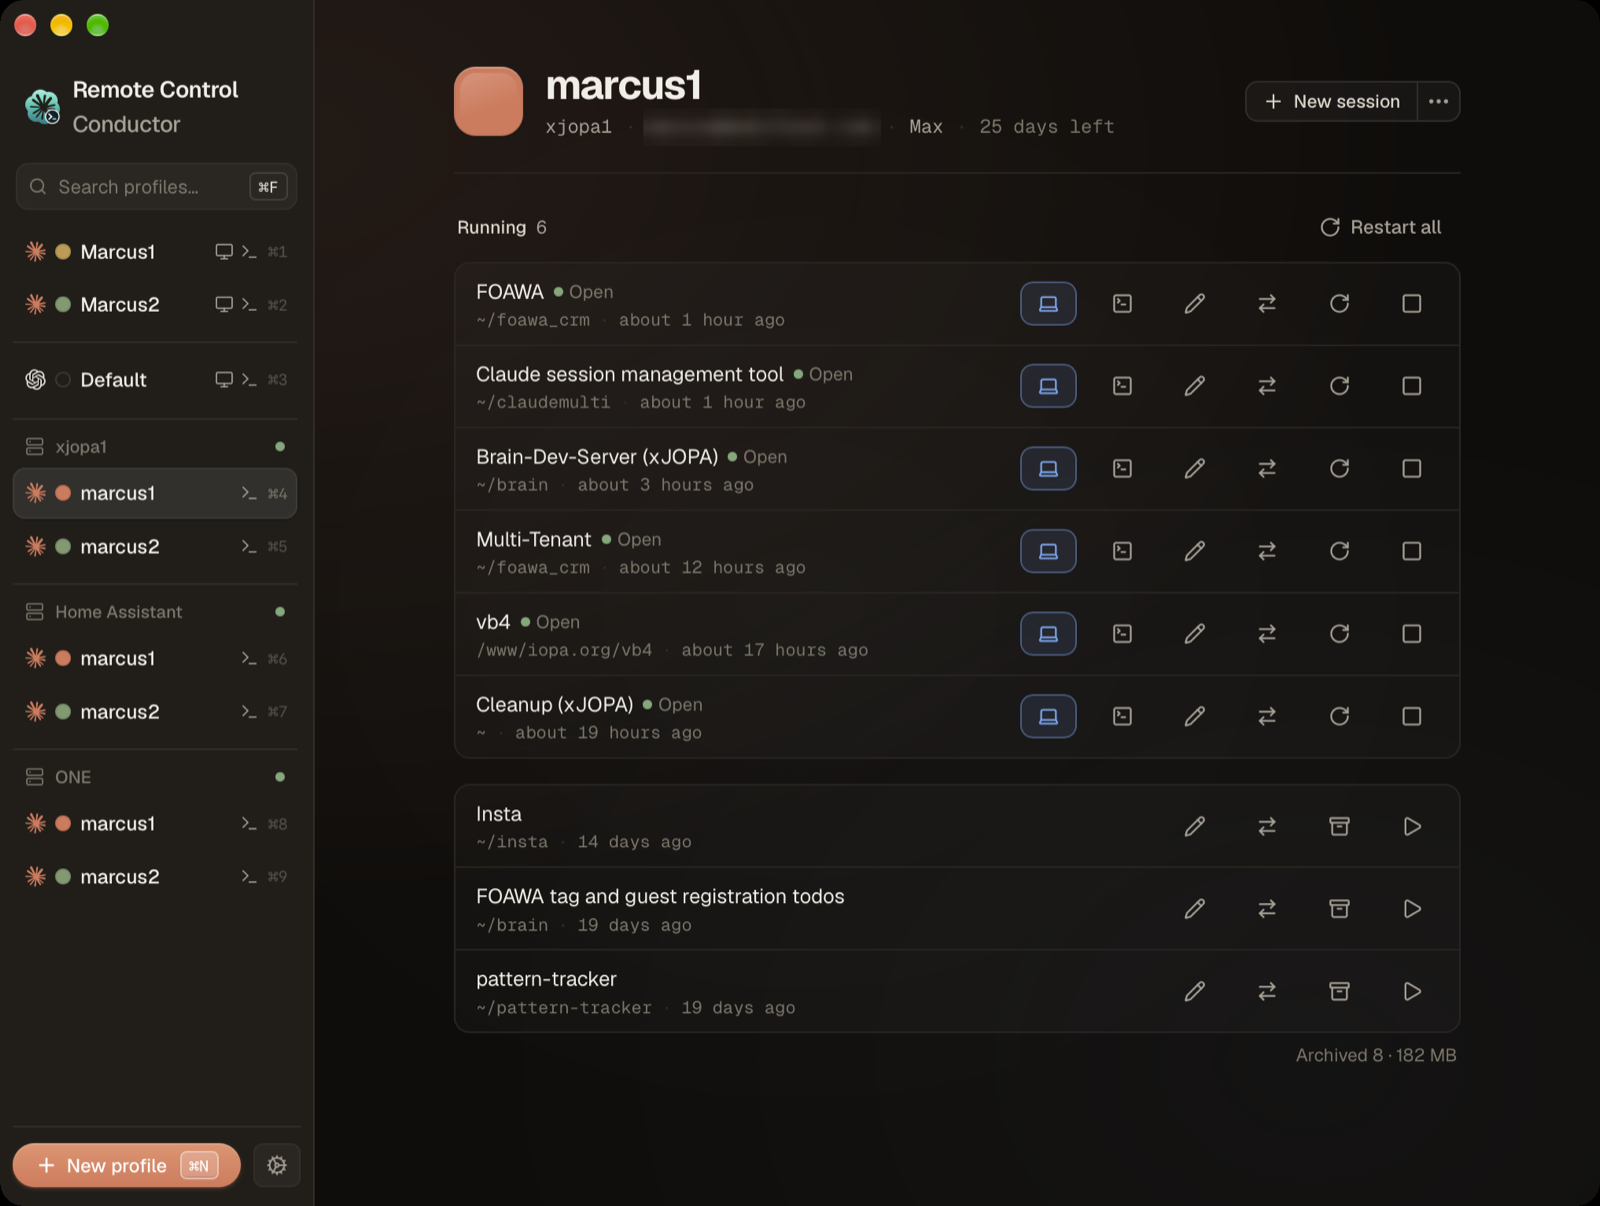
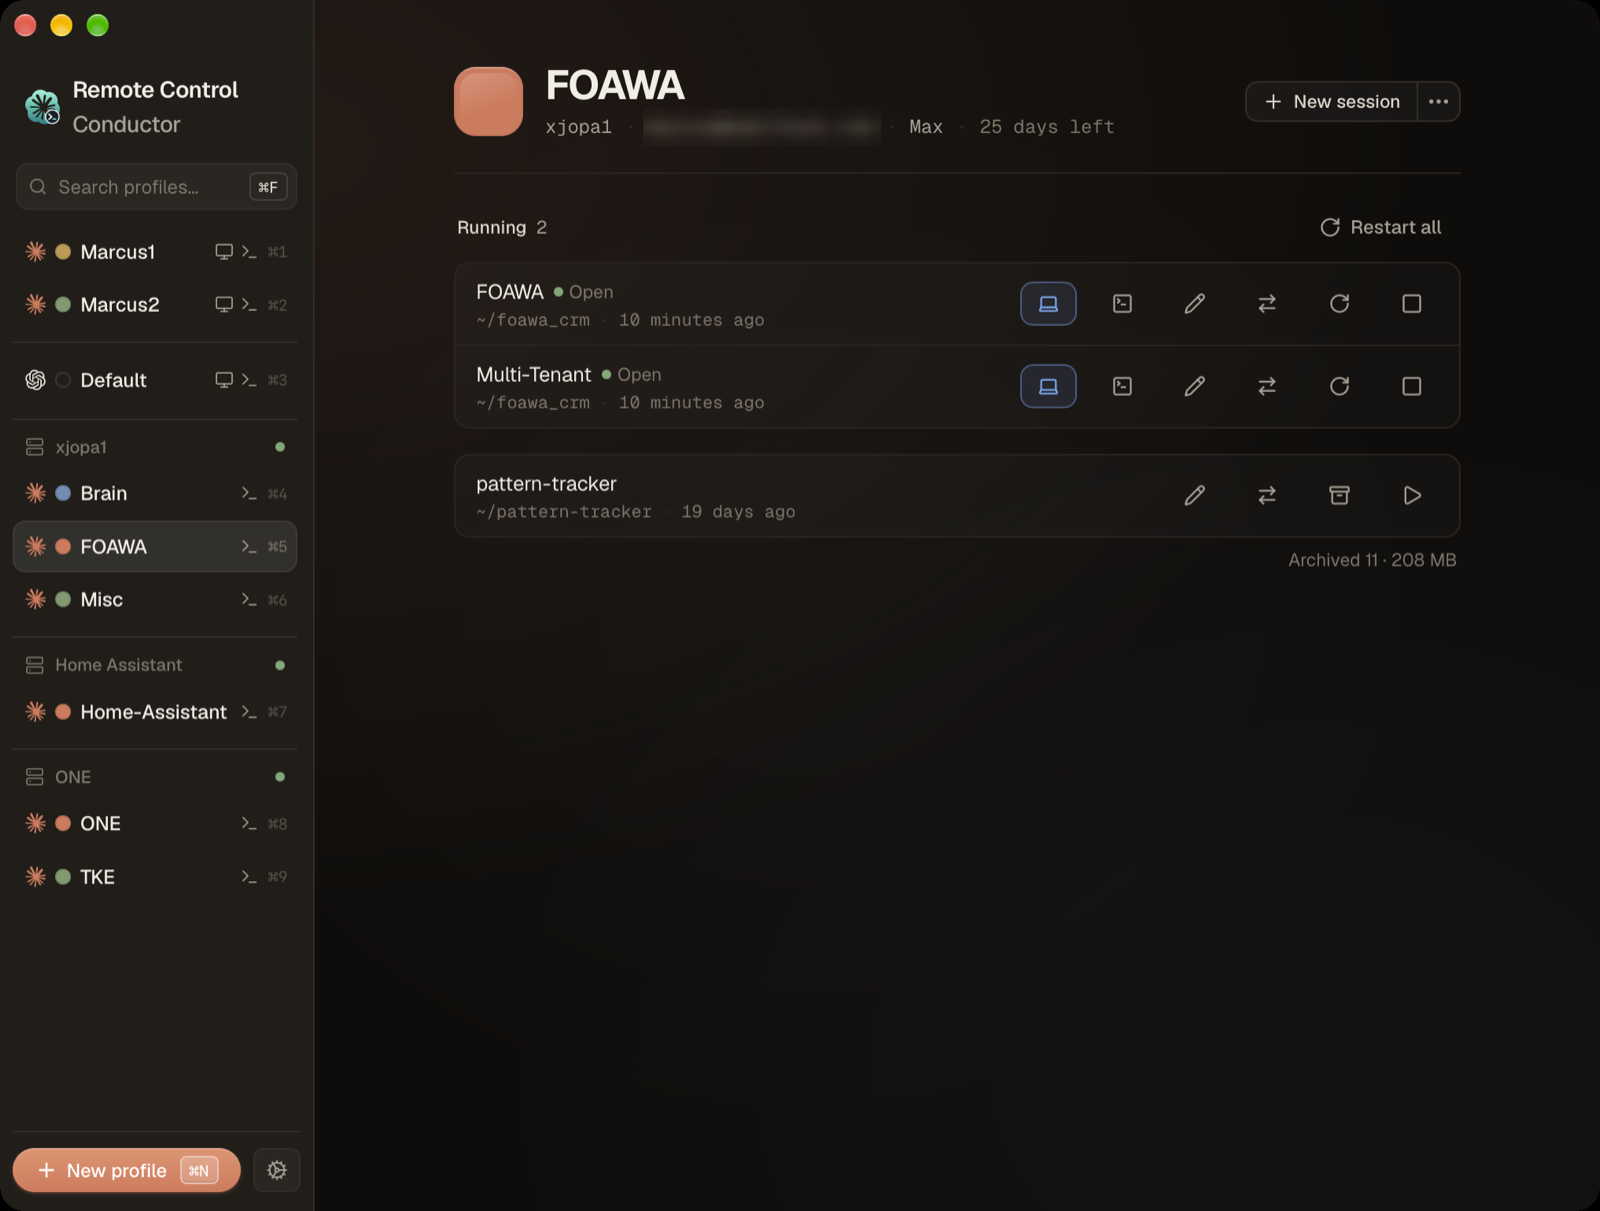
docs: accounts as desktop profiles, projects as host profiles; switch, don't move
The README explains how to set it up: each Claude account once as a desktop
profile, each project's sessions in a profile of its own on a host, and
Switch account when an account runs out, which is safer than moving
sessions because signing out and in is something Claude Code supports.
New screenshots: a project on a host, the Switch account dialog, and a
desktop profile's Remote Control sessions.

diff --git a/README.md b/README.md
@@ -23,7 +23,7 @@
 </p>
 
 <p align="center">
-  <img alt="A Claude account on a Linux host: running and previous sessions" src="docs/screenshots/remote-profile.png" width="860">
+  <img alt="A project on a Linux host, FOAWA on xjopa1: its running and previous sessions" src="docs/screenshots/remote-profile.png" width="860">
 </p>
 
 Remote Control lets you work with Claude Code from the Claude app on your phone, another Mac or the web.
@@ -32,10 +32,27 @@ when Claude updates, and decide which account it runs under. **Remote Control Co
 server and every account, from your Mac.** And because it's also an MCP server, you can just ask Claude:
 *"restart the claudemulti session on xjopa1"*.
 
+## How to set it up: accounts and projects
+
+- **Add each of your Claude accounts once, as a desktop profile.** One per login, each with its own Claude
+  desktop app on your Mac.
+- **Group each project's sessions into its own profile on a host.** A profile on a server is a Claude Code
+  config folder with its own sign-in, sessions and memory: `brain`, `foawa`, `home-assistant`. Projects can
+  use the same account or different ones.
+- **When an account runs out of usage, switch that project's account.** Its sessions stop, it signs in as
+  the other account, and the same sessions come back, in the same conversations. Nothing moves, and your
+  other projects keep running.
+
+Switching is also the safer way. Signing a Claude Code install out and in again is something Claude Code
+supports. Moving a session's files from one config folder to another isn't: it relies on how Claude Code
+lays out its files today, which can change with any update. Moving sessions between profiles is still
+there, for splitting a project up, but switching the account is the way to carry on when an account hits
+its limit.
+
 ## What you get
 
 ### 🔑 Easy login
-Add a Claude account to a server and sign in **in your Mac's own browser**, with Claude's usual OAuth page.
+Add a profile to a server and sign it in **in your Mac's own browser**, with Claude's usual OAuth page.
 Paste the code it shows into the app, and you're done. You don't need an ssh session or a browser on the
 server, and you won't be copying links out of a headless terminal.
 
@@ -53,13 +70,33 @@ Sessions come back by themselves after the server reboots.
 </table>
 
 ### 📱 Launch right into Remote Control
-One click opens a running session in the Claude app for that account on your Mac. It's already in the
-Claude app on your phone. Need the terminal after all? **Open in Terminal** attaches over ssh.
+One click opens a running session in the Claude app signed in to the same account on your Mac. It's
+already in the Claude app on your phone. Need the terminal after all? **Open in Terminal** attaches over ssh.
 
-### 🔀 Move sessions between accounts
-Hit a usage limit on one account? Move the session to another one, on the same server or between profiles
-on your Mac, and carry on where you left off. Everything goes with it: the transcript, subagents, file
-history, todos and plans.
+Each desktop profile also lists the Remote Control sessions running on its account, on every host, so you
+can see what Claude (Marcus2) can open and jump straight in. It follows the account: switch a project's
+account, and its sessions move to the other desktop profile's list.
+
+<p align="center">
+  <img alt="A desktop profile with the Remote Control sessions running on its account" src="docs/screenshots/desktop-remote-control.png" width="720">
+</p>
+
+### 🔄 Switch accounts, not sessions
+Hit a usage limit? **Switch account…** on the project: its running sessions stop, it signs out, and you
+sign it in as another account in your browser. The same sessions then resume under the new account, in
+the same conversations, with Remote Control on. Nothing moves, and no other project is touched: it's
+Claude Code's own sign-out and sign-in, so it doesn't depend on its internals. If the
+browser signs you in to the same account again, the app notices and says so.
+
+<p align="center">
+  <img alt="Switch FOAWA to another account: its two sessions stop and resume under the new account" src="docs/screenshots/switch-account.png" width="720">
+</p>
+
+### 🔀 Move sessions between profiles
+To split a project up, move a session to another profile, on the same server or between profiles on
+your Mac. Everything goes with it: the transcript, subagents, file history, todos and plans. Claude Code
+doesn't officially support moving sessions, so this works with its files as they're laid out today, with
+backups and checks along the way.
 
 - **Project memory merges.** Notes only one side changed merge by themselves. For notes both sides
   changed, you choose: keep the newer, take either side, or let Claude write a merge you read first.
@@ -85,14 +122,15 @@ back in the same conversation and with Remote Control on.
 
 ### 🖥 Several servers, several accounts
 Pair as many Linux machines as you like: a VM in the cloud, a box under the desk, a Docker container on
-your NAS. Each shows up in the sidebar under its name, with its accounts as profiles you can color and put
+your NAS. Each shows up in the sidebar under its name, with its projects as profiles you can color and put
 on ⌘1…⌘9.
 
 ### 🤖 Let Claude run it, over MCP
 The app is also an MCP server, so Claude Desktop and Claude Code can do all of this for you: *"restart
-everything on xjopa1 that's waiting on an update"*, *"what's the brain session stuck on?"*, *"move it to
-marcus2"*. It lists profiles, sessions and usage; starts, stops, restarts and renames sessions; reads and
-answers a session's window; and plans and makes moves, merging memory the way you tell it. Claude starts
+everything on xjopa1 that's waiting on an update"*, *"what's the brain session stuck on?"*, *"switch
+foawa to my other account"*. It lists profiles, sessions and usage; starts, stops, restarts and renames
+sessions; reads and answers a session's window; switches a project's account; and plans and makes moves,
+merging memory the way you tell it. Claude starts
 the server itself, so the app doesn't need to be open.
 
 Set it up under **Settings → MCP server**: **Add to my Claude profiles** adds it to every Claude profile on
@@ -177,7 +215,8 @@ between accounts:
 What Remote Control Conductor adds:
 
 1. **One place for accounts and their sessions,** on the Mac and on your servers, side by side.
-2. **Moving a session between accounts,** memory and all.
+2. **Switching a project's account** when one runs out, sessions and all, and moving sessions between
+   profiles, memory and all.
 3. **Remote Control, not another client.** You work in the official Claude apps. This app starts, stops,
    restarts, renames and moves the sessions behind them.
 4. **Built for a Linux host:** a small server with pinned TLS that brings sessions back after a reboot,
